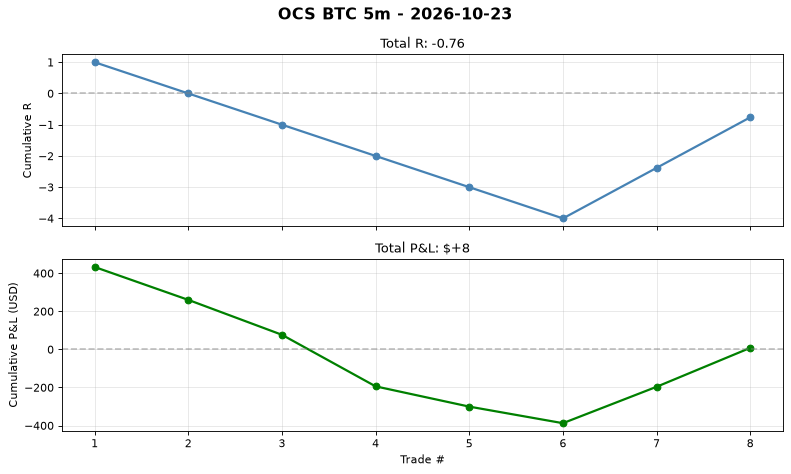
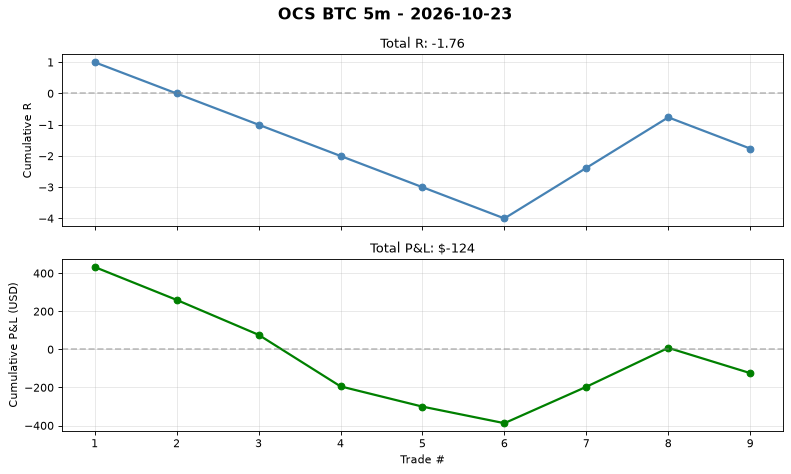
auto(ocs-btc): signal log 2026-10-23T12:08 trades=9

diff --git a/automation/reports/ocs_btc_5m/daily/2026-10-23.md b/automation/reports/ocs_btc_5m/daily/2026-10-23.md
@@ -1,12 +1,12 @@
 # OCS BTC 5m - 2026-10-23
 
 ## Summary
-- **Trades**: 3 (2W / 1L)
-- **Win Rate**: 66.7%
-- **Total R**: +2.24R
-- **Total P&L**: $+309
-- **Avg R**: +0.75R
-- **Profit Factor**: 0.85
+- **Trades**: 4 (2W / 2L)
+- **Win Rate**: 50.0%
+- **Total R**: +1.24R
+- **Total P&L**: $+176
+- **Avg R**: +0.31R
+- **Profit Factor**: 0.71
 
 ## Exit Breakdown
 - T1 (+1.0R): 1
@@ -14,7 +14,7 @@
 - T3 (+2.618R): 0
 - T4 (+3.618R): 0
 - T5 (+5.0R): 0
-- SL (-1.0R): 5
+- SL (-1.0R): 6
 
 ## Best Trade
 - **SHORT** at 81,211 -> T2 81,020
@@ -27,11 +27,11 @@
 - Held for 1 bars
 
 ## Cumulative Stats (Lifetime)
-- Total trades: 8
-- WR: 37.5%
-- Avg R: -0.095
-- Total R: -0.76R
-- Profit Factor: 0.85
+- Total trades: 9
+- WR: 33.3%
+- Avg R: -0.196
+- Total R: -1.76R
+- Profit Factor: 0.71
 
 ## Chart
 See `daily/2026-10-23.png` for cumulative P&L curve.
